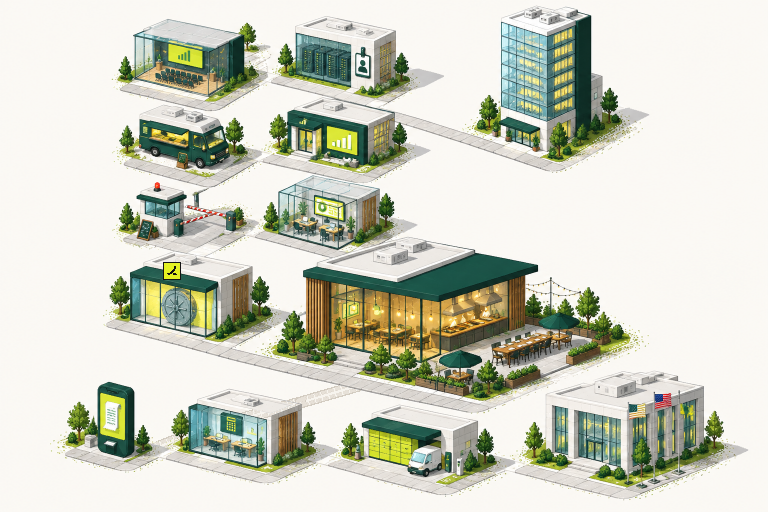
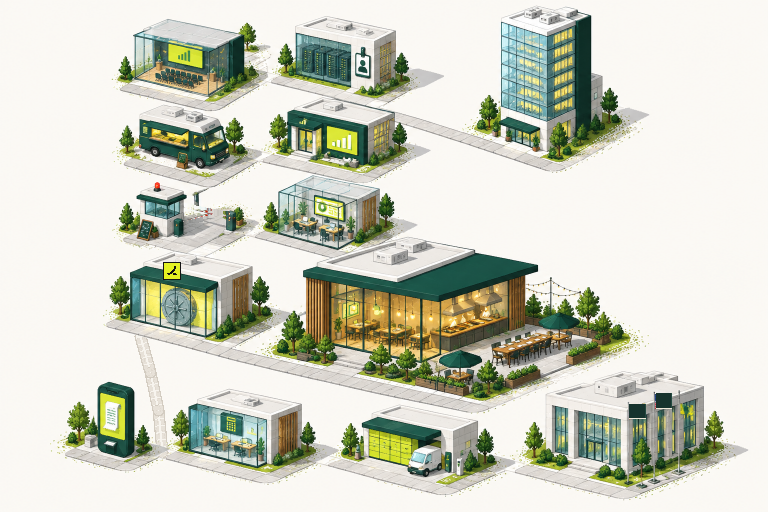
Town map: sidewalk routes, seated diners, drag and zoom, evening lamps, boom gate, vault wheel
- The bell walks hand-authored routes along the sidewalks instead of cutting through buildings
- Diners sit at the long table's chairs (far row facing us, near row from behind), one chair empty
- Federal building flags are plain dark-green banners
- Drag to pan and scroll to zoom; Follow the dinner resets the camera
- Plaques are measured and placed in the nearest free spot inside the map, so they never overlap
- Street lamps with warm light pools, a boom gate that lifts when red flags clear, and a vault wheel that turns when the card is issued

diff --git a/apps/web/components/dinner-map.tsx b/apps/web/components/dinner-map.tsx
@@ -13,7 +13,7 @@ import { openFlag, STEPS, stepOf, usd, type Role } from '../lib/dinner';
 import { AUDIT_STEP, cardLimitOf, changedStations, dayOf, EASE_STANDARD, headcountOf, layoutPath, nameOf, restingStation, sourceOf, speakerOf, STEP_KEYS, stationsFor, thinkingLines, type DinnerState, type DocRef, type Station } from '../lib/map';
 import { AppBar, readRole, setRoleCookie } from './app-bar';
 import { Bell, BELL_FRAMES } from './bell';
-import { BELL_ART, LIFE, PEOPLE, PLACES, TOWN, TREE_LAYERS, townPath } from '../lib/town';
+import { BELL_ART, camera as frameOf, GATE, LAMPS, LIFE, PEOPLE, PLACES, TOWN, TREE_LAYERS, WHEEL, townPath, type Camera } from '../lib/town';
 import { DocCard } from './doc-card';
 import { RampCard } from './ramp-card';
 import { Stamp, type StampTone } from './stamp';
@@ -210,18 +210,69 @@ export function DinnerMap({ planId }: { planId: string }) {
   const shown = run?.step ?? viewing ?? step;
   const stations = useMemo(() => (state ? stationsFor(shown, state, shown === 1 && round !== null ? round : undefined) : []), [state, shown, round]);
   const [overview, setOverview] = useState(false);
-  const geometry = useMemo(() => townPath(shown, stations.length || 1, size.w, size.h, overview), [shown, stations.length, size.w, size.h, overview]);
-  // Plaques never overlap: each tries its spot, then above, then to either side, until it is clear of the ones placed so far.
-  const plaques = useMemo(() => {
-    const W = 136, H = 58, gap = 6, placed: { x: number; y: number }[] = [];
-    const tries = [[0, 0], [0, -(H + gap)], [W + gap, 0], [-(W + gap), 0], [0, -2 * (H + gap)], [W + gap, -(H + gap)], [-(W + gap), -(H + gap)]];
-    return geometry.points.map((p) => {
-      const base = { x: p.x, y: p.y - geometry.camera.scale * 30 };
-      const spot = tries.map(([dx, dy]) => ({ x: base.x + dx!, y: base.y + dy! })).find((c) => placed.every((q) => Math.abs(q.x - c.x) >= W + gap || Math.abs(q.y - c.y) >= H + gap)) ?? base;
-      placed.push(spot);
-      return spot;
+  // The viewer can drag the town and zoom with the wheel; following the dinner (or a new step) puts the camera back.
+  const [look, setLook] = useState<Camera | null>(null);
+  const [dragging, setDragging] = useState(false);
+  const drag = useRef<{ x: number; y: number; cam: Camera } | null>(null);
+  useEffect(() => setLook(null), [shown, overview]);
+  const geometry = useMemo(() => townPath(shown, stations.length || 1, size.w, size.h, overview, look), [shown, stations.length, size.w, size.h, overview, look]);
+  const camRef = useRef(geometry.camera);
+  camRef.current = geometry.camera;
+  useEffect(() => {
+    const el = world.current;
+    if (!el) return;
+    const onWheel = (e: WheelEvent) => {
+      e.preventDefault();
+      const cam = camRef.current, box = el.getBoundingClientRect(), px = e.clientX - box.left, py = e.clientY - box.top;
+      const least = frameOf(0, el.clientWidth, el.clientHeight, true).scale * 0.8;
+      const scale = Math.min(4, Math.max(least, cam.scale * Math.exp(-e.deltaY * 0.0015)));
+      setLook({ scale, x: px - ((px - cam.x) / cam.scale) * scale, y: py - ((py - cam.y) / cam.scale) * scale });
+    };
+    el.addEventListener('wheel', onWheel, { passive: false });
+    return () => el.removeEventListener('wheel', onWheel);
+  }, [core === null]); // eslint-disable-line react-hooks/exhaustive-deps
+  const startDrag = (e: React.PointerEvent<HTMLDivElement>) => {
+    if (e.button !== 0 || (e.target as HTMLElement).closest('button, a, [role=dialog], input, textarea')) return;
+    drag.current = { x: e.clientX, y: e.clientY, cam: camRef.current };
+    e.currentTarget.setPointerCapture(e.pointerId);
+    setDragging(true);
+  };
+  const moveDrag = (e: React.PointerEvent<HTMLDivElement>) => {
+    const d = drag.current;
+    if (d) setLook({ ...d.cam, x: d.cam.x + e.clientX - d.x, y: d.cam.y + e.clientY - d.y });
+  };
+  const endDrag = () => { drag.current = null; setDragging(false); };
+  // Plaques never overlap: measure each one, then give it the nearest free spot around its station, inside the map.
+  const plaqueEls = useRef<(HTMLButtonElement | null)[]>([]);
+  const [plaques, setPlaques] = useState<{ x: number; y: number }[]>([]);
+  useLayoutEffect(() => {
+    const gap = 6, lift = geometry.camera.scale * 30, top = 44, placed: { l: number; t: number; r: number; b: number }[] = [];
+    const next = geometry.points.map((p, i) => {
+      const el = plaqueEls.current[i], w = el?.offsetWidth ?? 140, h = el?.offsetHeight ?? 60;
+      const base = { x: p.x, y: p.y - lift };
+      const candidates: { x: number; y: number; cost: number }[] = [];
+      for (const dy of [0, -1, -2, 1, -3, 2]) for (const dx of [0, 0.5, -0.5, 1, -1, 1.5, -1.5, 2, -2]) {
+        const x = base.x + dx * (w + gap), y = dy === 1 || dy === 2 ? p.y + lift * 0.3 + h + (dy - 1) * (h + gap) : base.y + dy * (h + gap);
+        candidates.push({ x, y, cost: Math.hypot(x - base.x, (y - base.y) * 1.3) });
+      }
+      candidates.sort((a, b) => a.cost - b.cost);
+      const rect = (c: { x: number; y: number }) => ({ l: c.x - w / 2, t: c.y - h, r: c.x + w / 2, b: c.y });
+      const clear = (r: ReturnType<typeof rect>) => placed.every((q) => r.r + gap <= q.l || r.l >= q.r + gap || r.b + gap <= q.t || r.t >= q.b + gap);
+      const inside = (r: ReturnType<typeof rect>) => r.l >= gap && r.r <= size.w - gap && r.t >= top && r.b <= size.h - gap;
+      const pick = candidates.find((c) => clear(rect(c)) && inside(rect(c))) ?? candidates.find((c) => clear(rect(c))) ?? candidates[0]!;
+      placed.push(rect(pick));
+      return { x: pick.x, y: pick.y };
     });
-  }, [geometry]);
+    setPlaques((old) => (old.length === next.length && old.every((o, i) => o.x === next[i]!.x && o.y === next[i]!.y) ? old : next));
+  }, [geometry, stations, size.w, size.h]);
+  // The vault wheel turns once when Ramp issues the card while the page is open.
+  const fundRef = useRef<string | null | undefined>(undefined);
+  const [vaultTurn, setVaultTurn] = useState(0);
+  const fundId = core?.view.plan.fundId ?? null;
+  useEffect(() => {
+    if (fundRef.current === null && fundId) setVaultTurn((n) => n + 1);
+    if (core) fundRef.current = fundId;
+  }, [fundId, core]);
 
   if (!core || !state) return <main className="grid h-dvh place-items-center text-ink-muted">Loading…</main>;
   const { view, receipt, settlement, rounds } = core;
@@ -289,6 +340,9 @@ export function DinnerMap({ planId }: { planId: string }) {
   const resting = picked ?? (shown === step ? restingStation(stations) : stations.length - 1);
   const target = run?.exit ? 100 : geometry.stops[(run ? run.at : resting) + 1] ?? 0;
   const visible = (i: number) => !run || run.step !== shown || (run.recheck ? !run.recheck.includes(i) : i < run.seen);
+  // The gate: down until the red-flag check has been seen clear; held down (beacon racing) while it is flagged.
+  const redFlags = shown === 1 ? stations.findIndex((s) => s.name === 'Red flags') : -1;
+  const gate: 'open' | 'closed' | 'held' = shown > 1 || step > 1 ? 'open' : redFlags >= 0 && visible(redFlags) ? (stations[redFlags]!.mark === 'clear' ? 'open' : 'held') : 'closed';
   const docModel = doc && buildCard(doc, state, documents);
   const caps = settlement?.caps.length ? settlement.caps : evaluation?.caps ?? [];
   const pickedStation = picked !== null ? stations[picked] : undefined;
@@ -448,18 +502,28 @@ export function DinnerMap({ planId }: { planId: string }) {
             })}
           </ol>
           <div className="flex min-h-0 flex-1">
-          <div ref={world} className="relative min-h-0 min-w-0 flex-1 overflow-hidden">
+          <div ref={world} onPointerDown={startDrag} onPointerMove={moveDrag} onPointerUp={endDrag} onPointerCancel={endDrag} className={`relative min-h-0 min-w-0 flex-1 touch-none overflow-hidden select-none ${dragging ? 'cursor-grabbing' : 'cursor-grab'}`}>
             {size.w > 0 && (
               <>
                 {/* The town, framed on this step's place. The art scales with the camera; plaques and the bell sit on top in screen space. */}
-                <div className="pointer-events-none absolute top-0 left-0 transition-transform duration-[calc(var(--motion-duration-slow)*2)] ease-standard motion-reduce:transition-none" style={{ width: TOWN.width, height: TOWN.height, transformOrigin: '0 0', transform: `translate(${geometry.camera.x}px, ${geometry.camera.y}px) scale(${geometry.camera.scale})` }}>
+                <div className={`pointer-events-none absolute top-0 left-0 ease-standard motion-reduce:transition-none ${dragging || look ? '' : 'transition-transform duration-[calc(var(--motion-duration-slow)*2)]'}`} style={{ width: TOWN.width, height: TOWN.height, transformOrigin: '0 0', transform: `translate(${geometry.camera.x}px, ${geometry.camera.y}px) scale(${geometry.camera.scale})` }}>
                   <img src={TOWN.src} alt={`The town: ${PLACES.map((p) => p.name).join(', ')}`} width={TOWN.width} height={TOWN.height} draggable={false} className="block [image-rendering:pixelated]" />
                   {/* The town is alive: trees rustle a pixel, the checkpoint beacon blinks, string lights twinkle, the kitchen steams. */}
                   {TREE_LAYERS.map((t) => <img key={t.src} src={t.src} alt="" width={TOWN.width} height={TOWN.height} draggable={false} className="covers-rustle absolute inset-0 [image-rendering:pixelated]" style={{ animationDuration: `calc(var(--motion-duration-slow) * ${t.every * 2})`, animationDelay: `calc(var(--motion-duration-slow) * ${t.offset * 2})` }} />)}
                   <i className="covers-blink absolute bg-status-over" style={{ left: LIFE.beacon.x, top: LIFE.beacon.y, width: LIFE.beacon.size, height: LIFE.beacon.size }} />
                   {LIFE.bulbs.map(([x, y], n) => <i key={n} className="covers-twinkle absolute bg-accent" style={{ left: x, top: y, width: 1, height: 1, animationDelay: `calc(var(--motion-stagger) * ${(n * 7) % 19})` }} />)}
                   {LIFE.vents.flatMap((v, n) => [0, 1, 2].map((k) => <i key={`${n}-${k}`} className="covers-steam absolute bg-bg-surface" style={{ left: v.x + k, top: v.y, width: 2, height: 2, animationDelay: `calc(var(--motion-duration-slow) * ${k * 2 + n})` }} />))}
-                  {PEOPLE.diners.map(([x, y, look], n) => <img key={`diner-${n}`} src={`/town/diner-${look}.png`} alt="" width={5} height={6} draggable={false} className="absolute [image-rendering:pixelated]" style={{ left: x, top: y - 6 }} />)}
+                  {/* Evening: lamps along the sidewalks, each with a warm pool of light that breathes. */}
+                  {LAMPS.map(([x, y], n) => <img key={`pool-${n}`} src="/town/pool.png" alt="" width={30} height={13} draggable={false} className="covers-glow absolute [image-rendering:pixelated]" style={{ left: x - 15, top: y - 6, animationDelay: `calc(var(--motion-stagger) * ${(n * 5) % 13})` }} />)}
+                  {LAMPS.map(([x, y], n) => <img key={`lamp-${n}`} src="/town/lamp.png" alt="" width={5} height={16} draggable={false} className="absolute [image-rendering:pixelated]" style={{ left: x - 2, top: y - 16 }} />)}
+                  {/* The checkpoint's boom gate lifts once the red-flag check is clear, and stays down while something is flagged. */}
+                  <i className="absolute origin-left transition-transform duration-[calc(var(--motion-duration-slow)*2)] ease-standard" style={{ left: GATE.x, top: GATE.y - 1, width: GATE.length, height: 2, transform: `rotate(${gate === 'open' ? GATE.open : GATE.closed}deg)`, backgroundImage: 'repeating-linear-gradient(90deg, var(--color-status-over) 0 4px, var(--color-bg-surface) 4px 8px)' }} />
+                  <i className={`absolute bg-ink-primary ${gate === 'held' ? 'covers-blink-fast' : ''}`} style={{ left: GATE.x - 1, top: GATE.y - 2, width: 3, height: 4 }} />
+                  {/* The bank's vault wheel turns when the card is issued. */}
+                  <img key={`wheel-${vaultTurn}`} src="/town/wheel.png" alt="" width={WHEEL.size} height={WHEEL.size} draggable={false} className={`absolute [image-rendering:pixelated] ${vaultTurn ? 'covers-vault' : ''}`} style={{ left: WHEEL.x, top: WHEEL.y }} />
+                  <img src="/town/mullion.png" alt="" width={WHEEL.bar.width} height={WHEEL.bar.height} draggable={false} className="absolute [image-rendering:pixelated]" style={{ left: WHEEL.bar.x, top: WHEEL.bar.y }} />
+                  {PEOPLE.far.map(([x, y, look], n) => <img key={`far-${n}`} src={`/town/diner-${look}.png`} alt="" width={5} height={6} draggable={false} className="absolute [image-rendering:pixelated]" style={{ left: x - 2, top: y - 6 }} />)}
+                  {PEOPLE.near.map(([x, y, look], n) => <img key={`near-${n}`} src={`/town/diner-back-${look}.png`} alt="" width={5} height={5} draggable={false} className="absolute [image-rendering:pixelated]" style={{ left: x - 2, top: y - 5 }} />)}
                   <i className="covers-waiter absolute" style={{ left: PEOPLE.waiter.x, top: PEOPLE.waiter.y - PEOPLE.waiter.height, width: PEOPLE.waiter.width, height: PEOPLE.waiter.height, backgroundImage: 'url(/town/waiter.png)', backgroundSize: `${PEOPLE.waiter.width * 2}px ${PEOPLE.waiter.height}px`, imageRendering: 'pixelated' }} />
                   <svg className="pointer-events-none absolute inset-0 overflow-visible" width={TOWN.width} height={TOWN.height} aria-hidden="true">
                     <path ref={pathRef} d={geometry.artD} fill="none" stroke="none" />
@@ -473,7 +537,7 @@ export function DinnerMap({ planId }: { planId: string }) {
                   const lines = thinkingLines(s), filled = seen ? lines.length : here ? run!.line : 0;
                   const at = plaques[i] ?? p;
                   return (
-                    <button key={s.name} aria-label={`Open ${s.name}`} disabled={!(seen || here) || zoomed} onClick={() => pickStation(i)}
+                    <button key={s.name} ref={(el) => { plaqueEls.current[i] = el; }} aria-label={`Open ${s.name}`} disabled={!(seen || here) || zoomed} onClick={() => pickStation(i)}
                       style={{ left: at.x, top: at.y }}
                       className={`absolute z-5 flex -translate-x-1/2 -translate-y-full cursor-pointer flex-col gap-1 border bg-bg-surface px-2 py-1.5 text-left transition-[left,top,opacity,border-color] duration-[calc(var(--motion-duration-slow)*2)] ease-standard hover:border-ink-primary disabled:cursor-default ${here || (run?.at === i && run.step === shown) ? 'border-ink-primary' : CARD_EDGE[mark]} ${zoomed ? 'pointer-events-none opacity-0' : ''}`}>
                       <span className="flex items-center gap-1.5 text-small font-strong whitespace-nowrap"><i className={`size-2.5 shrink-0 border ${MARK_BOX[mark]}`} />{s.name}</span>
@@ -485,7 +549,8 @@ export function DinnerMap({ planId }: { planId: string }) {
               </>
             )}
             {stamp && <Stamp key={stamp.text} text={stamp.text} tone={stamp.tone} />}
-            {!zoomed && <button onClick={() => setOverview((o) => !o)} className="absolute top-3 left-6 z-10 cursor-pointer border border-ink-primary bg-bg-surface px-2.5 py-1 text-small font-strong hover:bg-accent-tint">{overview ? 'Follow the dinner' : 'See the whole town'}</button>}
+            {!zoomed && <button onClick={() => { if (look && !overview) setLook(null); else setOverview((o) => !o); }} className="absolute top-3 left-6 z-10 cursor-pointer border border-ink-primary bg-bg-surface px-2.5 py-1 text-small font-strong hover:bg-accent-tint">{overview || look ? 'Follow the dinner' : 'See the whole town'}</button>}
+            {!zoomed && <span className="pointer-events-none absolute top-4 left-48 z-10 text-micro text-ink-muted">Drag to look around · scroll to zoom</span>}
             {!zoomed && arrow('l', prev)}{!zoomed && arrow('r', next)}
             {size.w > 0 && Detail()}
           </div>

diff --git a/apps/web/lib/town.ts b/apps/web/lib/town.ts
@@ -14,68 +14,85 @@ export const LIFE = {
   vents: [{ x: 390, y: 252 }, { x: 412, y: 242 }],
 };
 
-/** People at the restaurant, in art pixels (bottom-left of each sprite). One seat at the long table stays empty: the no-show. */
+/**
+ * People at the restaurant's long table, in art pixels (bottom-centre of each sprite, sitting on a chair). The far row
+ * faces us across the table; the near row has its back to us. One far chair stays empty: the no-show.
+ */
 export const PEOPLE = {
-  diners: [[496, 338, 0], [506, 334, 1], [516, 331, 2], [526, 328, 3], [535, 326, 4], [497, 350, 5], [509, 347, 1], [519, 344, 3], [530, 341, 0], [572, 327, 2], [588, 330, 4]] as [number, number, number][],
+  far: [[495, 347, 0], [507, 343, 1], [518, 340, 2], [528, 337, 3]] as [number, number, number][],
+  near: [[497, 353, 0], [526, 350, 1], [546, 346, 2]] as [number, number, number][],
   waiter: { x: 500, y: 372, width: 7, height: 9 },
 };
 
+/** Evening light: street lamps (bottom-centre of the post) at the back edge of the sidewalks. */
+export const LAMPS: [number, number][] = [[548, 156], [452, 128], [232, 90], [276, 164], [232, 236], [150, 318], [306, 340], [420, 374], [482, 388], [108, 450], [240, 458], [380, 462], [540, 472]];
+/** The checkpoint's boom gate: pivot, arm length, and its closed and lifted angles (degrees). */
+export const GATE = { x: 181, y: 224, length: 46, closed: -13.5, open: -75 } as const;
+/** The bank's vault wheel (public/town/wheel.png) and the window bar drawn in front of it. */
+export const WHEEL = { x: 160, y: 289, size: 34, bar: { x: 175, y: 288, width: 3, height: 36 } } as const;
+
 type Pt = { x: number; y: number };
-type Place = { name: string; region: [number, number, number, number]; slots: Pt[] };
+type Place = { name: string; region: [number, number, number, number] };
 
 /** Step index → where it happens, the part of town the camera frames, and the station spots in walking order. */
 export const PLACES: Place[] = [
-  { name: 'Halden HQ', region: [410, 10, 650, 200], slots: [{ x: 468, y: 160 }, { x: 498, y: 168 }, { x: 532, y: 168 }, { x: 566, y: 158 }] },
-  {
-    name: 'Compliance row', region: [140, 40, 410, 290],
-    slots: [{ x: 205, y: 104 }, { x: 352, y: 98 }, { x: 208, y: 170 }, { x: 348, y: 172 }, { x: 196, y: 242 }, { x: 338, y: 248 }],
-  },
-  { name: 'The bank (Ramp)', region: [60, 240, 290, 350], slots: [{ x: 104, y: 320 }, { x: 140, y: 328 }, { x: 178, y: 332 }, { x: 216, y: 328 }] },
-  { name: 'The restaurant', region: [320, 270, 650, 420], slots: [{ x: 362, y: 372 }, { x: 430, y: 380 }, { x: 538, y: 360 }, { x: 590, y: 374 }] },
-  { name: 'The phone kiosk', region: [50, 395, 220, 505], slots: [{ x: 92, y: 470 }, { x: 118, y: 480 }, { x: 146, y: 478 }, { x: 170, y: 468 }] },
-  {
-    name: 'The accounting office', region: [170, 395, 350, 505],
-    slots: [{ x: 200, y: 470 }, { x: 220, y: 480 }, { x: 244, y: 484 }, { x: 268, y: 480 }, { x: 290, y: 472 }, { x: 310, y: 462 }],
-  },
-  { name: 'Parcel depot to the federal building', region: [330, 385, 720, 505], slots: [{ x: 362, y: 470 }, { x: 410, y: 480 }, { x: 460, y: 478 }, { x: 600, y: 470 }] },
+  { name: 'Halden HQ', region: [390, 70, 650, 200] },
+  { name: 'Compliance row', region: [140, 40, 410, 290] },
+  { name: 'The bank (Ramp)', region: [60, 230, 360, 350] },
+  { name: 'The restaurant', region: [180, 290, 560, 420] },
+  { name: 'The phone kiosk', region: [50, 320, 470, 505] },
+  { name: 'The accounting office', region: [60, 395, 350, 505] },
+  { name: 'Parcel depot to the federal building', region: [300, 385, 720, 505] },
+];
+
+/**
+ * The walk for each step, along the town's sidewalks: [x, y, station]. A station point is where a check happens; the
+ * others are corners. Each step's walk starts where the previous one ended.
+ */
+export const ROUTES: [number, number, 0 | 1][][] = [
+  [[560, 165, 0], [530, 156, 1], [500, 147, 1], [470, 138, 1], [440, 129, 1], [400, 118, 0]],
+  [[300, 97, 0], [212, 98, 1], [342, 100, 1], [262, 100, 0], [262, 168, 0], [212, 170, 1], [342, 172, 1], [256, 172, 0], [256, 244, 0], [212, 244, 1], [340, 246, 1]],
+  [[288, 248, 0], [288, 328, 0], [232, 330, 1], [200, 329, 1], [168, 328, 1], [138, 327, 1]],
+  [[200, 330, 0], [252, 336, 0], [300, 352, 0], [340, 368, 1], [400, 380, 1], [455, 392, 1], [505, 400, 1]],
+  [[455, 392, 0], [300, 352, 0], [252, 336, 0], [148, 336, 0], [154, 390, 0], [160, 452, 0], [140, 458, 1], [118, 462, 1], [98, 462, 1], [84, 458, 1]],
+  [[120, 462, 0], [165, 462, 0], [188, 464, 1], [210, 467, 1], [232, 469, 1], [254, 469, 1], [276, 467, 1], [298, 464, 1]],
+  [[330, 464, 0], [352, 467, 1], [400, 474, 1], [450, 478, 1], [505, 478, 0], [600, 482, 1]],
 ];
 
 
+
+export type Camera = { x: number; y: number; scale: number };
+
 /** The camera for a step: scale and offset that frame its place in a w×h viewport. */
-export function camera(step: number, w: number, h: number, overview = false) {
+export function camera(step: number, w: number, h: number, overview = false): Camera {
   const [x0, y0, x1, y1] = overview ? [0, 0, TOWN.width, TOWN.height] : (PLACES[step] ?? PLACES[0]!).region;
   const scale = Math.min(3.2, (w * 0.9) / (x1 - x0), (h * 0.86) / (y1 - y0));
   return { scale, x: w / 2 - ((x0 + x1) / 2) * scale, y: h / 2 - ((y0 + y1) / 2) * scale };
 }
 
 /**
- * Screen geometry for one step, in the same shape as layoutPath: the station points, a path through them that starts
- * where the previous step ended, and each point's position along the path (0–100) for the walker.
+ * Screen geometry for one step: the station points, the walk through them along the sidewalks (starting where the
+ * previous step ended), and each station's position along the walk (0–100). stops[0] is the start, stops[i + 1] is
+ * station i, and the walk's end is 100. `view` overrides the camera when the viewer has dragged or zoomed the town.
  */
-export function townPath(step: number, count: number, w: number, h: number, overview = false) {
-  const cam = camera(step, w, h, overview), place = PLACES[step] ?? PLACES[0]!;
-  const toScreen = (p: Pt) => ({ x: cam.x + p.x * cam.scale, y: cam.y + p.y * cam.scale });
-  const slot = (i: number) => place.slots[Math.min(i, place.slots.length - 1)]!;
-  const prev = PLACES[step - 1]?.slots.at(-1);
-  const startArt = prev ?? { x: slot(0).x - 30, y: slot(0).y + 6 };
-  const pts = Array.from({ length: Math.max(1, count) }, (_, i) => {
-    const s = slot(i), extra = i >= place.slots.length ? i - place.slots.length + 1 : 0; // more stations than spots: step along
-    return toScreen({ x: s.x + extra * 14, y: s.y + extra * 4 });
+export function townPath(step: number, count: number, w: number, h: number, overview = false, view?: Camera | null) {
+  const cam = view ?? camera(step, w, h, overview), route = ROUTES[step] ?? ROUTES[0]!;
+  const art: Pt[] = [...(step > 0 ? [ROUTES[step - 1]!.at(-1)!] : []), ...route].map(([x, y]) => ({ x, y }));
+  const at = [0];
+  for (let i = 1; i < art.length; i++) at.push(at[i - 1]! + Math.hypot(art[i]!.x - art[i - 1]!.x, art[i]!.y - art[i - 1]!.y));
+  const total = at.at(-1) || 1, offset = step > 0 ? 1 : 0;
+  const spots = route.flatMap(([x, y, s], i) => (s ? [{ x, y, along: at[i + offset]! }] : []));
+  // More stations than spots: the extras line up a few steps past the last spot, along the sidewalk.
+  const stations = Array.from({ length: Math.max(1, count) }, (_, i) => {
+    const s = spots[Math.min(i, spots.length - 1)]!, extra = Math.max(0, i - spots.length + 1);
+    return { x: s.x + extra * 14, y: s.y + extra * 2, along: Math.min(total, s.along + extra * 14) };
   });
-  const start = toScreen(startArt), last = pts.at(-1)!, end = { x: last.x + 18 * cam.scale, y: last.y };
-  const all = [start, ...pts, end];
-  // Walk like the town's sidewalks run: along the two isometric directions (2:1 right-down and 2:1 right-up), turning
-  // one corner between stops instead of cutting straight across buildings.
-  const corner = (a: Pt, b: Pt): Pt => { const dx = b.x - a.x, dy = b.y - a.y, s1 = (dx + 2 * dy) / 4; return { x: a.x + 2 * s1, y: a.y + s1 }; };
-  let d = `M${all[0]!.x} ${all[0]!.y}`, length = 0;
-  const lengths = [0];
-  for (let i = 1; i < all.length; i++) {
-    const a = all[i - 1]!, b = all[i]!, c = corner(a, b);
-    d += ` L${c.x} ${c.y} L${b.x} ${b.y}`;
-    length += Math.hypot(c.x - a.x, c.y - a.y) + Math.hypot(b.x - c.x, b.y - c.y); lengths.push(length);
-  }
-  const toArt = (q: { x: number; y: number }) => ({ x: (q.x - cam.x) / cam.scale, y: (q.y - cam.y) / cam.scale });
-  const art = all.map(toArt);
-  const artD = art.map((q, i) => (i ? `L${corner(art[i - 1]!, q).x} ${corner(art[i - 1]!, q).y} L${q.x} ${q.y}` : `M${q.x} ${q.y}`)).join(' ');
-  return { d, points: pts, stops: lengths.map((l) => (length ? (l / length) * 100 : 0)), camera: cam, artD };
+  const toScreen = (p: Pt) => ({ x: cam.x + p.x * cam.scale, y: cam.y + p.y * cam.scale });
+  const artD = art.map((q, i) => `${i ? 'L' : 'M'}${q.x} ${q.y}`).join(' ');
+  return {
+    points: stations.map(toScreen),
+    stops: [0, ...stations.map((s) => (s.along / total) * 100), 100],
+    camera: cam,
+    artD,
+  };
 }

diff --git a/apps/web/app/globals.css b/apps/web/app/globals.css
@@ -31,11 +31,16 @@
 /* The town's life (dinner map). steps() keeps every move on whole art pixels. */
 /* Mostly still; now and then a short rustle of one pixel each way. Each tree layer runs on its own length and offset. */
 @keyframes covers-rustle { 0%, 86%, 100% { transform: translateX(0); } 89% { transform: translateX(1px); } 92% { transform: translateX(0); } 95% { transform: translateX(-1px); } }
+@keyframes covers-vault { 0% { transform: rotate(0deg); filter: none; } 15% { filter: drop-shadow(0 0 3px var(--color-accent)); } 85% { transform: rotate(360deg); filter: drop-shadow(0 0 3px var(--color-accent)); } 100% { transform: rotate(360deg); filter: none; } }
+@keyframes covers-glow { 0%, 100% { opacity: 0.85; } 50% { opacity: 0.6; } }
 @keyframes covers-blink { 0%, 100% { opacity: 1; } 50% { opacity: 0.15; } }
 @keyframes covers-twinkle { 0%, 100% { opacity: 1; } 50% { opacity: 0.25; } }
 @keyframes covers-steam { 0% { opacity: 0; transform: translateY(0); } 20% { opacity: 0.9; } 100% { opacity: 0; transform: translateY(calc(var(--space-3) * -1)); } }
 @keyframes covers-print { 0% { opacity: 0.6; } 100% { opacity: 0; } }
 .covers-rustle { animation-name: covers-rustle; animation-timing-function: steps(1, end); animation-iteration-count: infinite; }
+.covers-vault { animation: covers-vault calc(var(--motion-duration-slow) * 6) steps(24, end) 1 both; }
+.covers-glow { animation: covers-glow calc(var(--motion-duration-slow) * 9) steps(4, end) infinite; }
+.covers-blink-fast { animation: covers-blink calc(var(--motion-duration-slow) / 2) steps(1, end) infinite; }
 .covers-blink { animation: covers-blink calc(var(--motion-duration-slow) * 2) steps(1, end) infinite; }
 .covers-twinkle { animation: covers-twinkle calc(var(--motion-duration-slow) * 3) steps(2, end) infinite; }
 .covers-steam { animation: covers-steam calc(var(--motion-duration-slow) * 6) steps(6, end) infinite; }
@@ -49,6 +54,6 @@
 .covers-waiter { animation: covers-waiter-walk calc(var(--motion-duration-slow) * 20) steps(80, end) infinite, covers-waiter-legs calc(var(--motion-duration-slow)) steps(2, end) infinite; }
 @media (prefers-reduced-motion: reduce) {
   .covers-waiter,
-  .covers-rustle, .covers-blink, .covers-twinkle, .covers-steam { animation: none; }
+  .covers-rustle, .covers-blink, .covers-twinkle, .covers-steam, .covers-vault, .covers-glow, .covers-blink-fast { animation: none; }
   .covers-stamp, .covers-card, .covers-charge, .covers-line, .covers-flash { animation: none; }
 }
